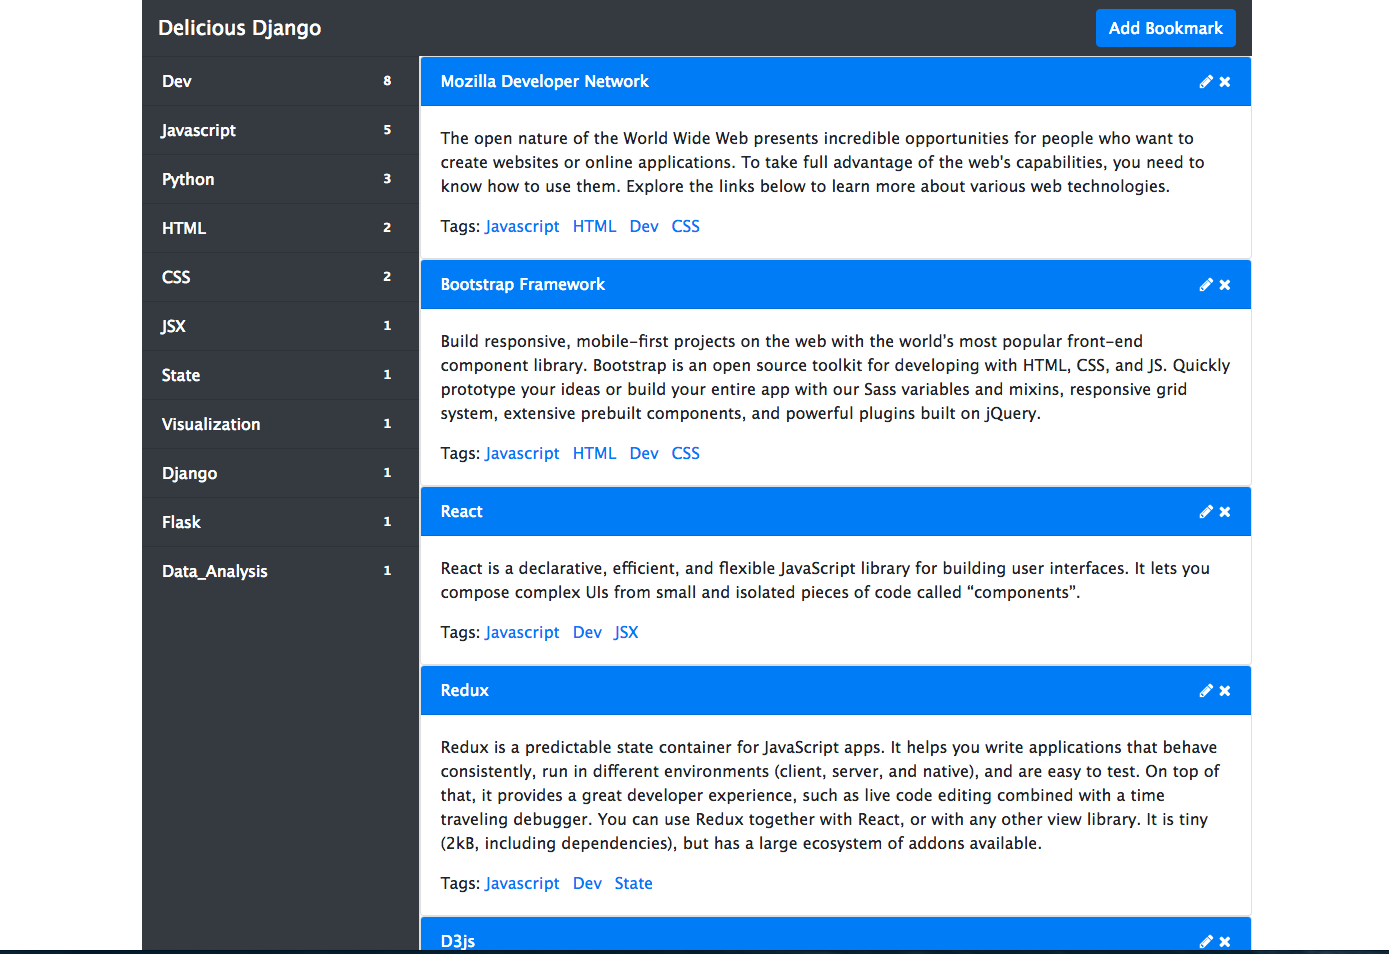
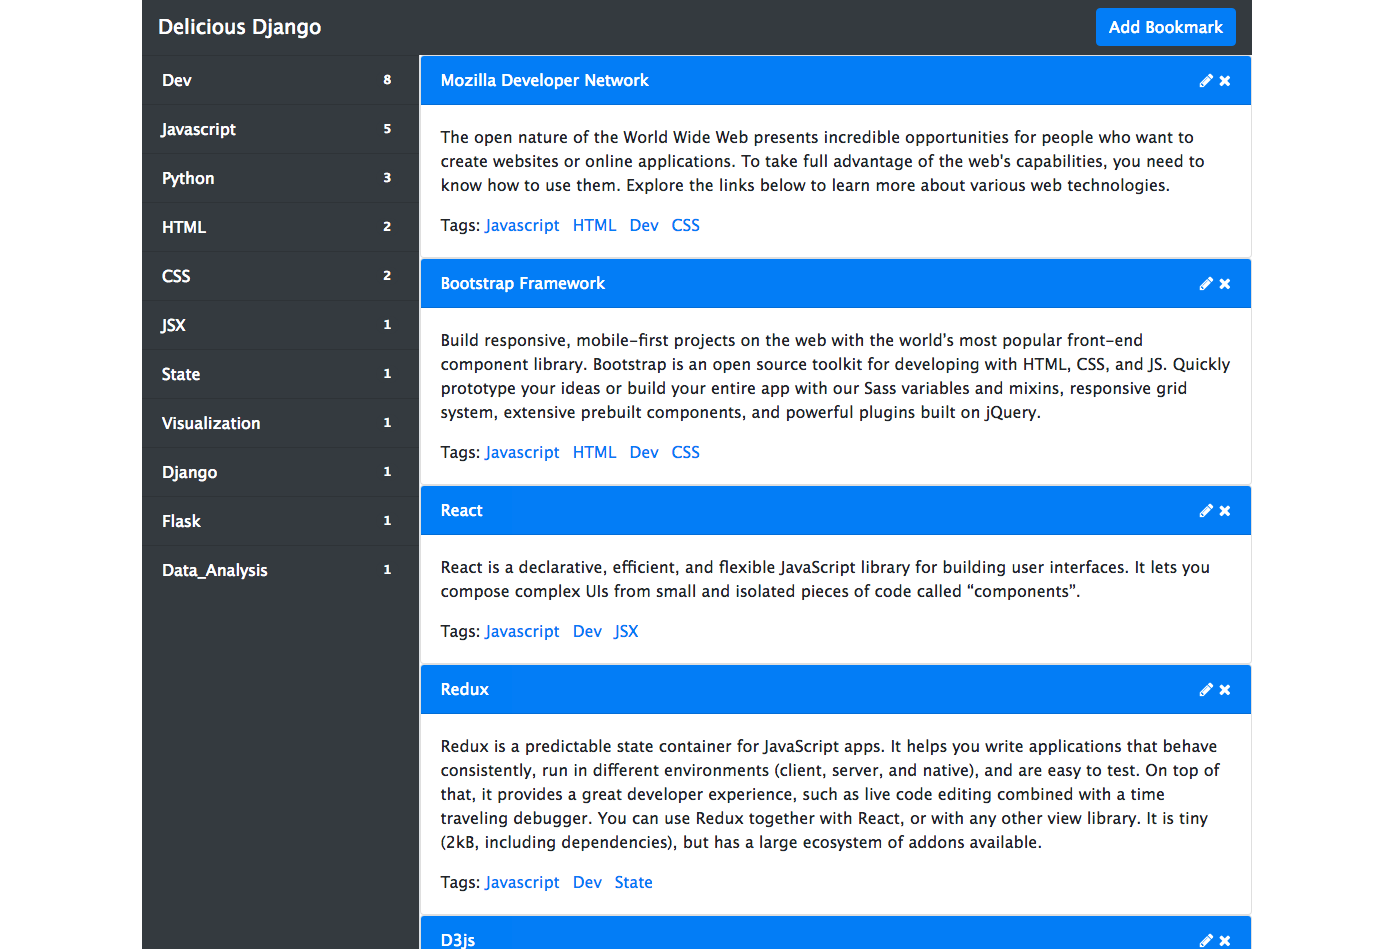
added create, edit and delete functionality for bookmarks

diff --git a/bookmarks/templates/bookmarks/base.html b/bookmarks/templates/bookmarks/base.html
@@ -9,20 +9,20 @@
     <link rel="stylesheet" href="https://stackpath.bootstrapcdn.com/bootstrap/4.3.1/css/bootstrap.min.css" integrity="sha384-ggOyR0iXCbMQv3Xipma34MD+dH/1fQ784/j6cY/iJTQUOhcWr7x9JvoRxT2MZw1T" crossorigin="anonymous">
 </head>
 <body>
-    <div class="container fluid">
+    <div class="container-fluid h-100">
         <div class="row">
             <div class="col-md-12">
                 <nav class="navbar navbar-dark bg-dark">
                     <a class="navbar-brand" href="#">Delicious Django</a>
-                    <button class="btn btn-primary ml-auto">Add Bookmark</button>
+                    <button class="btn btn-primary ml-auto text-white"><a class="text-white" href="/create/">Add Bookmark</a></button>
                 </nav>
             </div>
         </div>
-        <div class="row no-gutters">
-            <div class="col-md-3">
+        <div class="row no-gutters h-100">
+            <div class="col-md-2">
                 {% include 'bookmarks/_partials/sidebar.html' %}
             </div>
-            <div class="col-md-9">
+            <div class="col-md-10">
                 {% block content %}
                 {% endblock %}
             </div>

diff --git a/bookmarks/templates/bookmarks/_partials/bookmark.html b/bookmarks/templates/bookmarks/_partials/bookmark.html
@@ -1,17 +1,19 @@
 <div class="card">
     <div class="card-header bg-primary">
         <a href="{{ bookmark.url }}" target="_blank" class="card-link text-white">{{ bookmark.title }}</a>
+        <!-- Edit and dlete bookmarks-->
         <div class="icons float-lg-right float-md-right">
-            <a href="#" target="_blank"><i class="fa fa-pencil fa-1x text-white"></i></a>
-            <a href="#" target="_blank"><i class="fa fa-times fa-1x text-white"></i></a>
+            <a href="{{ bookmark.get_edit_url }}"><i class="fa fa-pencil fa-1x text-white"></i></a>
+            <a href="{{ bookmark.get_delete_url }}"><i class="fa fa-times fa-1x text-white"></i></a>
         </div>
     </div>
     <div class="card-body">
         <p class="card-text">{{ bookmark.description }}</p>
+        <!-- Tags for each bookmark-->
         <ul class="list-inline">
             Tags:
             {% for tag in bookmark.tags.all %}
-                <li class="list-inline-item"><a href="#" target="_blank">{{ tag }}</a></li>
+                <li class="list-inline-item"><a href="/{{ tag }}">{{ tag }}</a></li>
             {% endfor %}
         </ul>
     </div>

diff --git a/bookmarks/templates/bookmarks/_partials/sidebar.html b/bookmarks/templates/bookmarks/_partials/sidebar.html
@@ -5,7 +5,7 @@
         <div class="list-group list-group-flush bg-dark">
             {% for tag in tags %}
                 <li class="list-group-item d-flex justify-content-between align-items-center bg-dark ">
-                    <a href="#" class="bg-dark text-white">{{ tag }}</a>
+                    <a href="/{{ tag }}" class="bg-dark text-white">{{ tag }}</a>
                     <span class="badge badge-dark badge-pill">{{ tag.num_times }}</span>
                 </li>
             {% endfor %}

diff --git a/bookmarks/templates/bookmarks/create_bookmark.html b/bookmarks/templates/bookmarks/create_bookmark.html
@@ -1,0 +1,12 @@
+{% extends 'bookmarks/base.html' %}
+{% load crispy_forms_tags %}
+
+{% block content %}
+
+<form method="post">
+    {% csrf_token %}
+    {{ form|crispy }}
+    <button type="submit" class="btn btn-success">Submit</button>
+  </form>
+
+{% endblock %}

diff --git a/bookmarks/views.py b/bookmarks/views.py
@@ -1,9 +1,40 @@
-from django.shortcuts import render
+from django.http import request
+from django.shortcuts import render, redirect, get_object_or_404
 from django.views import generic
 
+from bookmarks.forms import BookmarkModelForm
 from bookmarks.models import Bookmark
 
 
 class BookmarkList(generic.ListView):
     template_name = 'bookmarks/bookmark_list.html'
     queryset = Bookmark.objects.all()
+
+
+def create_bookmark(request):
+    form = BookmarkModelForm(request.POST or None)
+    if form.is_valid():
+        form.save()
+        return redirect('/')
+    context = {
+        'form': form
+    }
+    return render(request, 'bookmarks/create_bookmark.html', context)
+
+
+def edit_bookmark(request, slug):
+    bookmark = get_object_or_404(Bookmark, slug=slug)
+    form = BookmarkModelForm(request.POST or None, instance=bookmark)
+    if form.is_valid():
+        form.save()
+        return redirect('/')
+    context = {
+        'form': form
+    }
+    return render(request, 'bookmarks/create_bookmark.html', context)
+
+
+def delete_bookmark(request, slug):
+    bookmark = get_object_or_404(Bookmark, slug=slug)
+    bookmark.delete()
+    return redirect('/')

diff --git a/bookmarks/models.py b/bookmarks/models.py
@@ -1,4 +1,5 @@
 from django.db import models
+from django.template.defaultfilters import slugify
 
 from taggit.managers import TaggableManager
 
@@ -7,10 +8,25 @@ class Bookmark(models.Model):
     title = models.CharField(default='', blank=True, max_length=255)
     url = models.URLField('URL')
     description = models.TextField(default='', blank=True)
-    created = models.DateTimeField(auto_now_add=True)
-    updated = models.DateTimeField(auto_now=True)
+    slug = models.SlugField(unique=True)
 
     tags = TaggableManager()
 
     def __str__(self):
         return self.title if self.title else self.url
+
+    # overriding save to auto fill in the slug for each bookmark
+    def save(self, *args, **kwargs):
+        if not self.id:
+            # Newly created object, so set slug
+            self.slug = slugify(self.title)
+
+        super(Bookmark, self).save(*args, **kwargs)
+
+    # helper function to get edit URL
+    def get_edit_url(self):
+        return "/edit/{}/".format(self.slug)
+
+    # helper function to get delete URL
+    def get_delete_url(self):
+        return "/delete/{}/".format(self.slug)

diff --git a/bookmarks/migrations/0001_initial.py b/bookmarks/migrations/0001_initial.py
@@ -1,4 +1,4 @@
-# Generated by Django 2.1.7 on 2019-02-15 01:56
+# Generated by Django 2.1.7 on 2019-02-20 02:26
 
 from django.db import migrations, models
 import taggit.managers
@@ -20,8 +20,7 @@ class Migration(migrations.Migration):
                 ('title', models.CharField(blank=True, default='', max_length=255)),
                 ('url', models.URLField(verbose_name='URL')),
                 ('description', models.TextField(blank=True, default='')),
-                ('created', models.DateTimeField(auto_now_add=True)),
-                ('updated', models.DateTimeField(auto_now=True)),
+                ('slug', models.SlugField(unique=True)),
                 ('tags', taggit.managers.TaggableManager(help_text='A comma-separated list of tags.', through='taggit.TaggedItem', to='taggit.Tag', verbose_name='Tags')),
             ],
         ),

diff --git a/delicious_django/urls.py b/delicious_django/urls.py
@@ -1,9 +1,12 @@
 from django.contrib import admin
 from django.urls import path
 
-from bookmarks.views import BookmarkList
+from bookmarks.views import BookmarkList, create_bookmark, edit_bookmark, delete_bookmark
 
 urlpatterns = [
     path('admin/', admin.site.urls),
     path('', BookmarkList.as_view(), name='bookmarks'),
+    path('create/', create_bookmark),
+    path('edit/<slug:slug>/', edit_bookmark),
+    path('delete/<slug:slug>/', delete_bookmark),
 ]

diff --git a/delicious_django/settings.py b/delicious_django/settings.py
@@ -37,6 +37,7 @@ INSTALLED_APPS = [
     'django.contrib.sessions',
     'django.contrib.messages',
     'django.contrib.staticfiles',
+    'crispy_forms',
     'taggit',
     'taggit_templatetags2',
     'bookmarks',
@@ -69,6 +70,8 @@ TEMPLATES = [
         },
     },
 ]
+
+CRISPY_TEMPLATE_PACK = 'bootstrap4'
 
 WSGI_APPLICATION = 'delicious_django.wsgi.application'
 

diff --git a/bookmarks/forms.py b/bookmarks/forms.py
@@ -1,0 +1,9 @@
+from django import forms
+
+from bookmarks.models import Bookmark
+
+
+class BookmarkModelForm(forms.ModelForm):
+    class Meta:
+        model = Bookmark
+        fields = ['title', 'url', 'description', 'tags']
